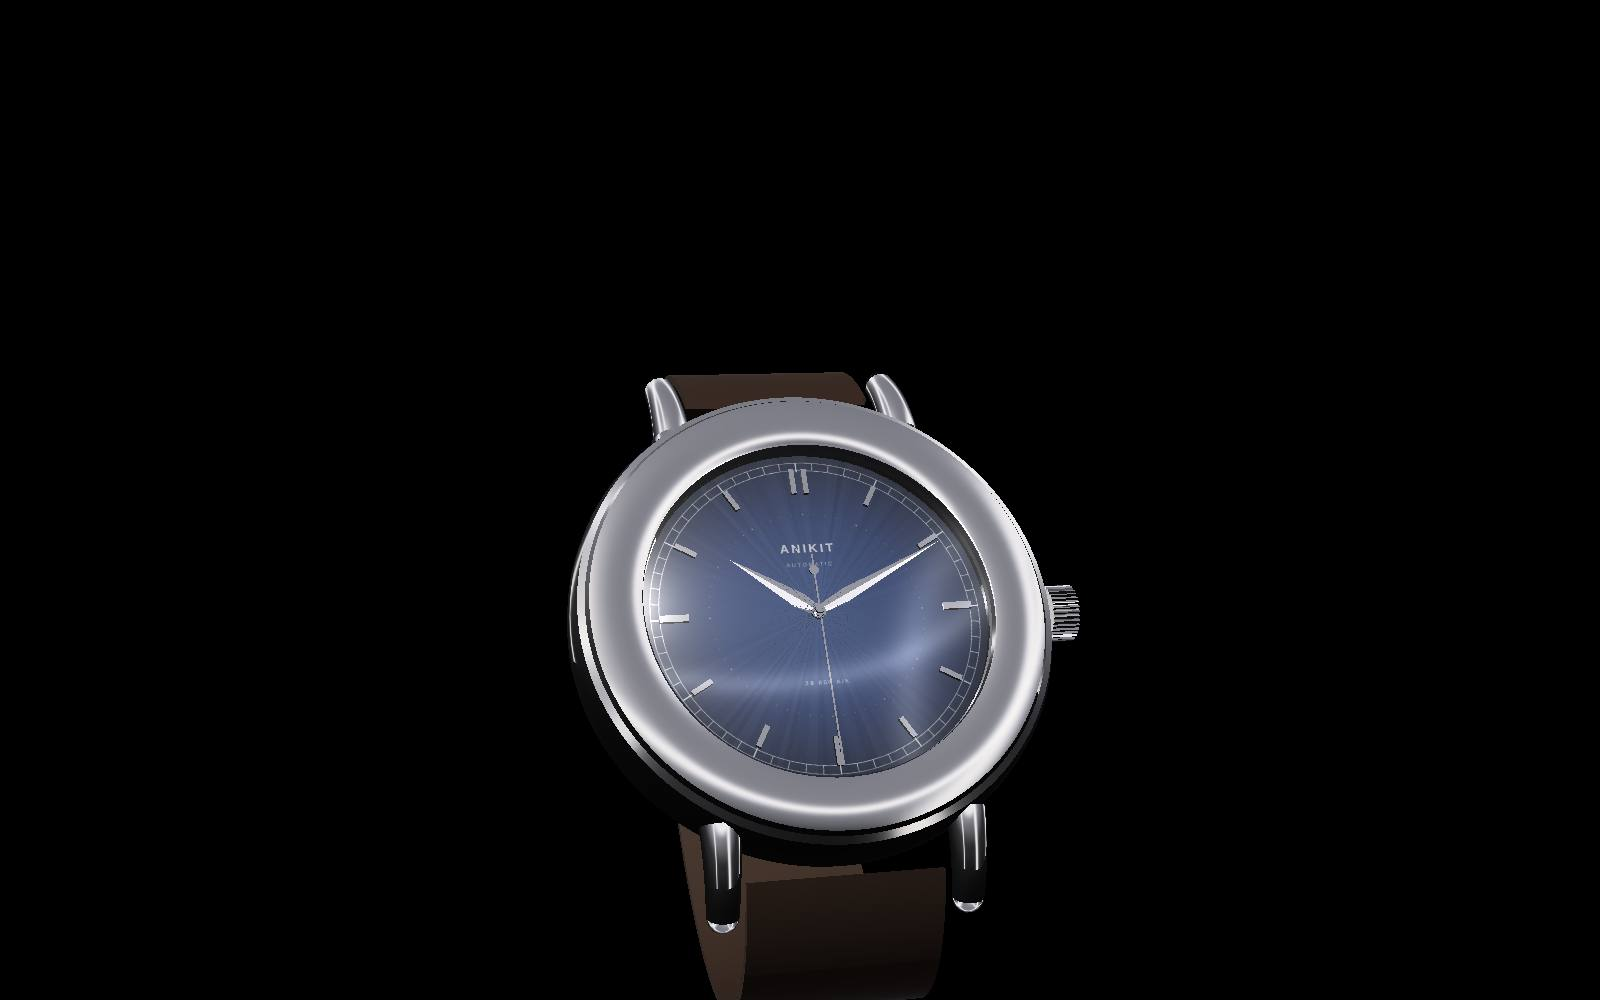
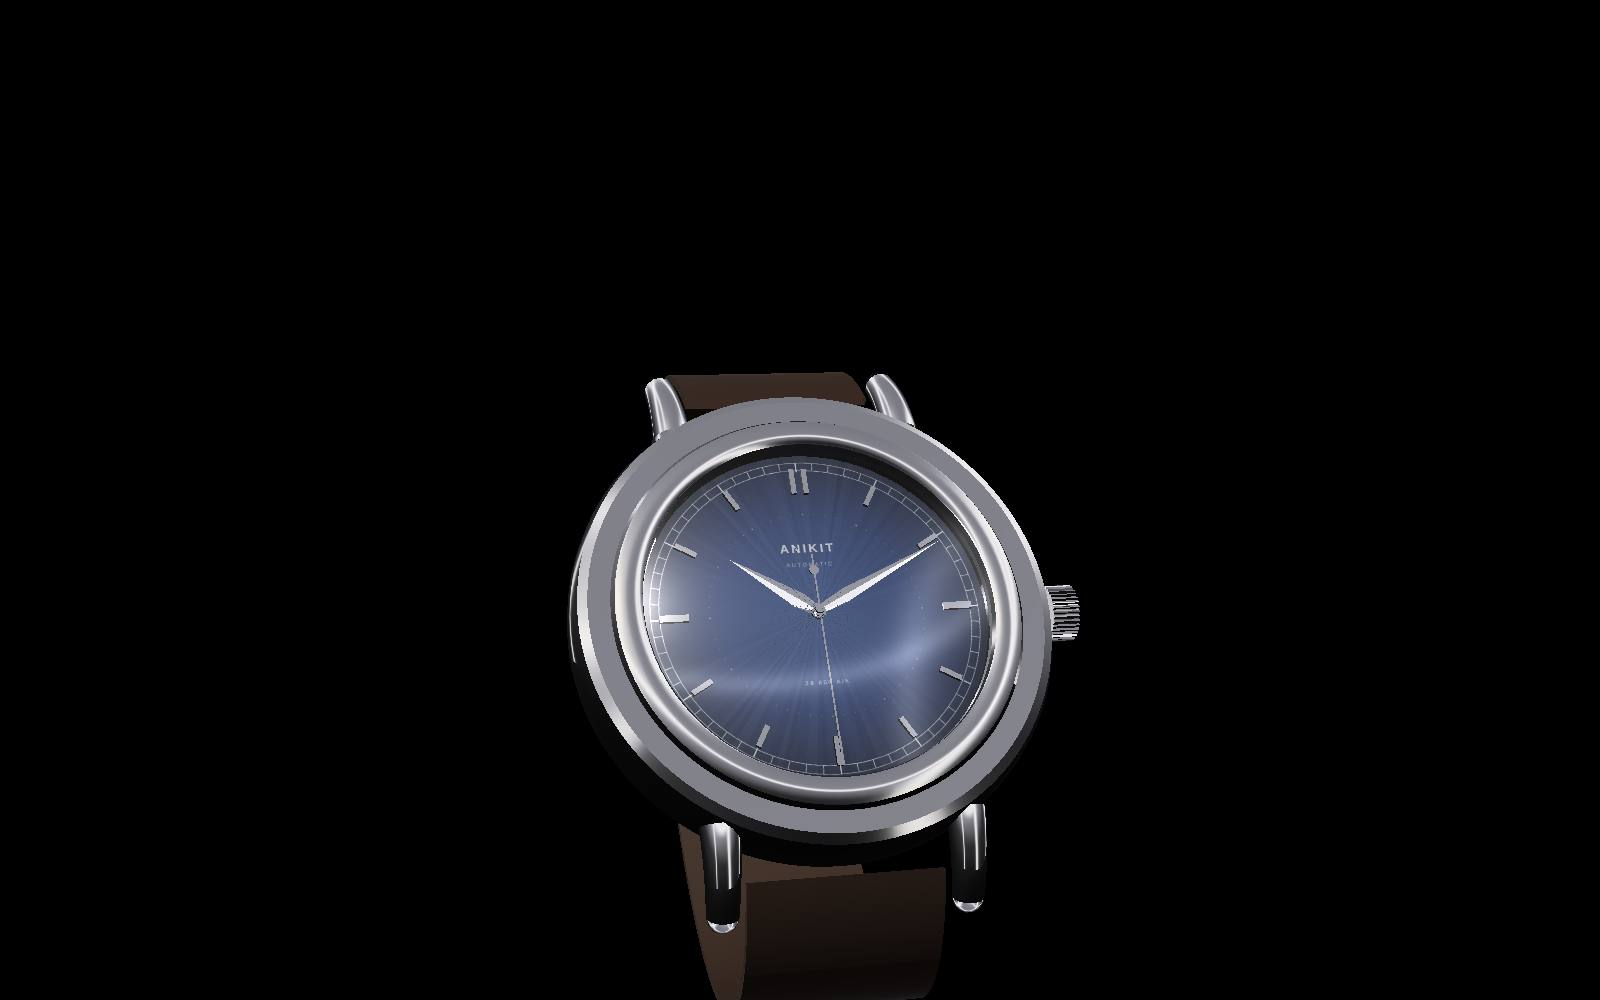
site: slimmer polished bezel over a stepped case, idle sway, legible captions
Claude-Session: https://claude.ai/code/session_01YBqayaET7JSh2nx9HSb69L

Changed region(s): [[0.3438, 0.465, 0.6562, 0.837], [0.4375, 0.434, 0.5625, 0.465]]

diff --git a/site/watch.js b/site/watch.js
@@ -286,7 +286,7 @@ function build() {
   G.caseMesh = lathe([[150, 80, 1], [153, 86, 1], [197, 87, 1], [205, 82, 1], [209, 70], [210, 52], [208, 30, 1], [200, 14, 1], [182, 6], [120, 3], [0, 2.5, 1]], 112);
   G.caseFloor = polar({ r0: 0, r1: 152, nr: 1, na: 64, y: 4, walls: false, normal: () => [0, 1, 0] });
   G.caseInner = lathe([[150, 4, 1], [150, 80, 1]], 96);
-  G.bezelMesh = lathe([[151, 85, 1], [152, 92, 1], [162, 96], [184, 95.5], [196, 91, 1], [199, 86, 1]], 112);
+  G.bezelMesh = lathe([[151, 85, 1], [152, 93, 1], [157, 97], [167, 96.5], [175, 92, 1], [178, 87, 1]], 112);
   G.crystal = polar({ r0: 0, r1: 152, nr: 6, na: 72, y: 0, walls: false, yAt: (x, z) => 98.5 - 3 * ((x * x + z * z) / (152 * 152)), normal: (x, z) => [x * 0.0026, 1, z * 0.0026] });
   G.dialTop = polar({ r0: 3, r1: 150, nr: 1, na: 180, y: 0, flatSeg: true, uvR: 150, normal: (x, z, a, r, j) => { const s = Math.sin(j * 12.9898 + 78.233) * 43758.5453, h = (s - Math.floor(s)) - 0.5; const tl = 0.1 * h; return [-Math.sin(a) * tl, 1, Math.cos(a) * tl]; } });
   G.dialBody = (() => { const b = new MB(); disc(b, 0, 0, 149.5, -3, -1.2, 96); return b.build(); })();
@@ -515,7 +515,7 @@ export async function createWatch({ width, height, canvas = null }) {
     // Screen positions (0–1) of the parts' right-hand edges, for the exploded-view labels.
     if (s.labels) {
       const m = cam.viewProjection().matrix, out = s.labels;
-      const pts = [[Gw, 160, exY(560) + 98], [Gw, 199, exY(480) + 92], [Gw, 60, exY(370) + 82], [Gd, 150, 0], [Gmov, 150, 0], [Gc, 210, 50], [Gw, 84, exY(-200) - 160]];
+      const pts = [[Gw, 160, exY(560) + 98], [Gw, 178, exY(480) + 92], [Gw, 60, exY(370) + 82], [Gd, 150, 0], [Gmov, 150, 0], [Gc, 210, 50], [Gw, 84, exY(-200) - 160]];
       for (let i = 0; i < pts.length; i++) {
         const [g, x, y] = pts[i];
         const v = i === 6 ? xf(Gw, x, y, 250, tmp) : xf(g, x, y, 0, tmp);

diff --git a/site/main.js b/site/main.js
@@ -109,7 +109,9 @@ function story(y) {
     // Hero → exploded view.
     const e = sstep(0.15 * vh, L.open.top + (L.open.h - vh) * 0.62, y);
     state.explode = e; state.dive = 0; state.lift = 130 * (1 - e) + 20 * e;
-    state.turn = 0.25 * Math.sin(Math.PI * clamp(prog('open', y))) * e;
+    // At rest the watch sways slowly, so the studio highlights travel across the case.
+    const sway = reduced ? 0 : 0.09 * Math.sin(performance.now() / 2600) * (1 - e);
+    state.turn = 0.25 * Math.sin(Math.PI * clamp(prog('open', y))) * e + sway;
   } else if (!near('close')) {
     // Into the movement.
     const u = prog('calibre', y);
@@ -117,7 +119,7 @@ function story(y) {
   } else {
     // Reassembly above the install command.
     const u = prog('close', y);
-    state.explode = 1 - sstep(0.02, 0.6, u); state.dive = 0; state.lift = 20 - 100 * sstep(0.02, 0.6, u); state.turn = -0.4 * (1 - sstep(0.02, 0.7, u));
+    state.explode = 1 - sstep(0.02, 0.6, u); state.dive = 0; state.lift = 20 - 100 * sstep(0.02, 0.6, u); state.turn = -0.4 * (1 - sstep(0.02, 0.7, u)) + (reduced ? 0 : 0.09 * Math.sin(performance.now() / 2600) * sstep(0.5, 0.9, u));
   }
 }
 

diff --git a/site/style.css b/site/style.css
@@ -47,7 +47,7 @@ main { position: relative; z-index: 2; }
 .beat.close { height: 230vh; }
 .stick { position: sticky; top: 0; height: 100vh; height: 100svh; display: flex; align-items: center; justify-content: center; padding: 72px var(--gut) 24px; }
 .beat .stick { align-items: flex-end; padding-bottom: 12vh; }
-.caption { margin: 0; text-align: center; font-size: clamp(16px, 1.35vw, 19px); line-height: 1.5; opacity: 0; will-change: transform, opacity; }
+.caption { margin: 0; text-align: center; text-shadow: 0 1px 2px #000, 0 0 18px rgba(0, 0, 0, 0.9), 0 0 40px rgba(0, 0, 0, 0.8); font-size: clamp(16px, 1.35vw, 19px); line-height: 1.5; opacity: 0; will-change: transform, opacity; }
 
 .pill { display: inline-flex; align-items: center; height: 38px; padding: 0 18px; border-radius: 999px; border: 1px solid rgba(255, 255, 255, 0.16); background: rgba(255, 255, 255, 0.03); color: var(--text); font: 400 14px/1 Text, sans-serif; cursor: pointer; transition: border-color 0.2s, background 0.2s; }
 .pill:hover { border-color: rgba(255, 255, 255, 0.36); }
